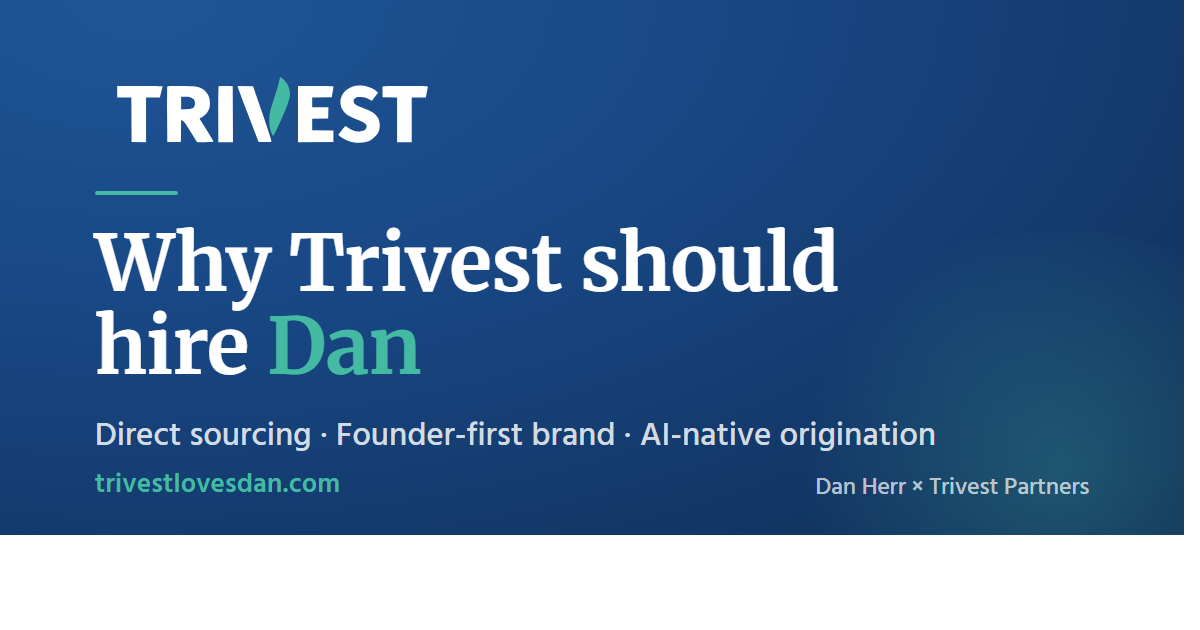
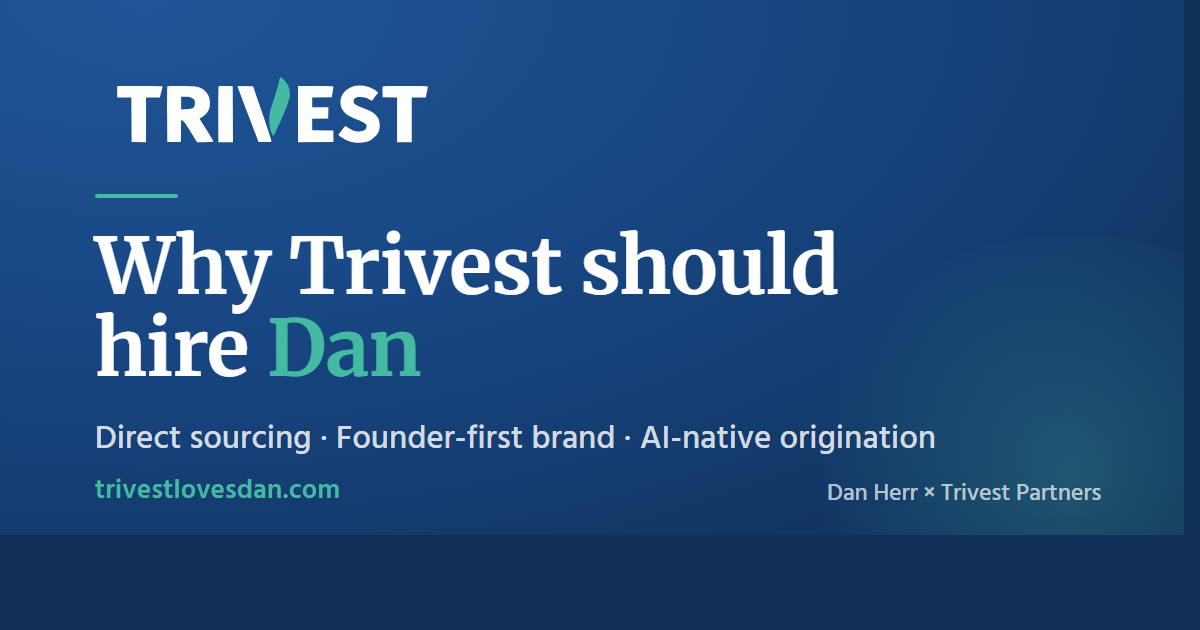
Fix white edges on OG card — make navy full-bleed
The card rendered slightly smaller than the 1200x630 capture frame, so
the right and bottom edges came out pure white (confirmed by sampling
edge pixels: R=255 G=255 B=255). In a text preview that reads as a white
border around the image.

Set the page background to the gradient's darkest navy (#102f57) and
oversize the card to 101vw/101vh so any sub-pixel gap is filled
seamlessly. Re-sampled all edges: now uniform navy, no white.

diff --git a/scripts/og-card.html b/scripts/og-card.html
@@ -14,10 +14,13 @@
         width: 100vw;
         height: 100vh;
         overflow: hidden;
+        /* darkest gradient stop — fills any sub-pixel gap so the frame
+           never shows white at the right/bottom edges */
+        background: #102f57;
       }
       .card {
-        width: 100vw;
-        height: 100vh;
+        width: 101vw;
+        height: 101vh;
         position: relative;
         overflow: hidden;
         background: radial-gradient(120% 140% at 12% 0%, #1f5596 0%, #184784 42%, #102f57 100%);
